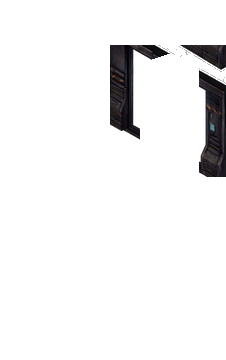
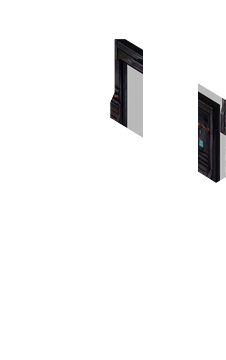
Updated Doors
All doors are fully funcational

Changed region(s): [[0.8053, 0.1222, 1.0, 0.5194], [0.4646, 0.0917, 0.7743, 0.3972]]

diff --git a/MissionTileCatalog.cs b/MissionTileCatalog.cs
@@ -89,7 +89,11 @@ public static class MissionTileCatalog
 
 		new MissionTileDefinition("door_survivors", "Door Survivors", MissionTileCategory.Prop, 'd', new Rect2(0, 0, 226, 360), Vector2.Zero, DoorScale, AlignedRoot + "doors/door_survivors_nw_closed.png"),
 		new MissionTileDefinition("door_archive", "Door Archive", MissionTileCategory.Prop, 'D', new Rect2(0, 0, 226, 360), Vector2.Zero, DoorScale, AlignedRoot + "doors/door_archive_nw_closed.png"),
-		new MissionTileDefinition("door_bulkhead", "Door Bulkhead", MissionTileCategory.Prop, '9', new Rect2(0, 0, 226, 360), Vector2.Zero, DoorScale, AlignedRoot + "doors/door_bulkhead_nw_closed.png"),
+		new MissionTileDefinition("door_bulkhead", "Door Bulkhead (Auto)", MissionTileCategory.Prop, '9', new Rect2(0, 0, 226, 360), Vector2.Zero, DoorScale, AlignedRoot + "doors/door_bulkhead_nw_closed.png"),
+		new MissionTileDefinition("door_bulkhead_nw", "Door Bulkhead NW", MissionTileCategory.Prop, '0', new Rect2(0, 0, 226, 360), Vector2.Zero, DoorScale, AlignedRoot + "doors/door_bulkhead_nw_closed.png"),
+		new MissionTileDefinition("door_bulkhead_ne", "Door Bulkhead NE", MissionTileCategory.Prop, 'Q', new Rect2(0, 0, 226, 360), Vector2.Zero, DoorScale, AlignedRoot + "doors/door_bulkhead_ne_closed.png"),
+		new MissionTileDefinition("door_bulkhead_se", "Door Bulkhead SE", MissionTileCategory.Prop, 'T', new Rect2(0, 0, 226, 360), Vector2.Zero, DoorScale, AlignedRoot + "doors/door_bulkhead_se_closed.png"),
+		new MissionTileDefinition("door_bulkhead_sw", "Door Bulkhead SW", MissionTileCategory.Prop, 'K', new Rect2(0, 0, 226, 360), Vector2.Zero, DoorScale, AlignedRoot + "doors/door_bulkhead_sw_closed.png"),
 		new MissionTileDefinition("console_survivor", "Console Single", MissionTileCategory.Prop, 'S', new Rect2(0, 0, 318, 311), AnchorBottomCenter(318f, 311f, PropScale.X), PropScale, AlignedRoot + "props/console_single.png"),
 		new MissionTileDefinition("medical_station", "Medical Bed", MissionTileCategory.Prop, 'm', new Rect2(0, 0, 378, 346), AnchorBottomCenter(378f, 346f, PropScale.X), PropScale, AlignedRoot + "props/medical_bed.png"),
 		new MissionTileDefinition("crate_survivor", "Crate Small", MissionTileCategory.Prop, 'c', new Rect2(0, 0, 251, 241), AnchorBottomCenter(251f, 241f, PropScale.X), PropScale, AlignedRoot + "props/crate_small.png"),

diff --git a/MissionDoor2D.cs b/MissionDoor2D.cs
@@ -131,7 +131,9 @@ public partial class MissionDoor2D : Node2D
 		_closedLeftPosition = Vector2.Zero;
 		_closedRightPosition = Vector2.Zero;
 
-		bool opensRightUp = sourcePath.Contains("_nw_") || sourcePath.Contains("_sw_");
+		// Door slide direction should follow the wall face diagonal, not simply north/south.
+		// NW and SE share one diagonal; NE and SW share the opposite.
+		bool opensRightUp = sourcePath.Contains("_nw_") || sourcePath.Contains("_se_");
 		float slideX = 11f * scale.X;
 		float slideY = 5f * scale.Y;
 		_openLeftPosition = opensRightUp
